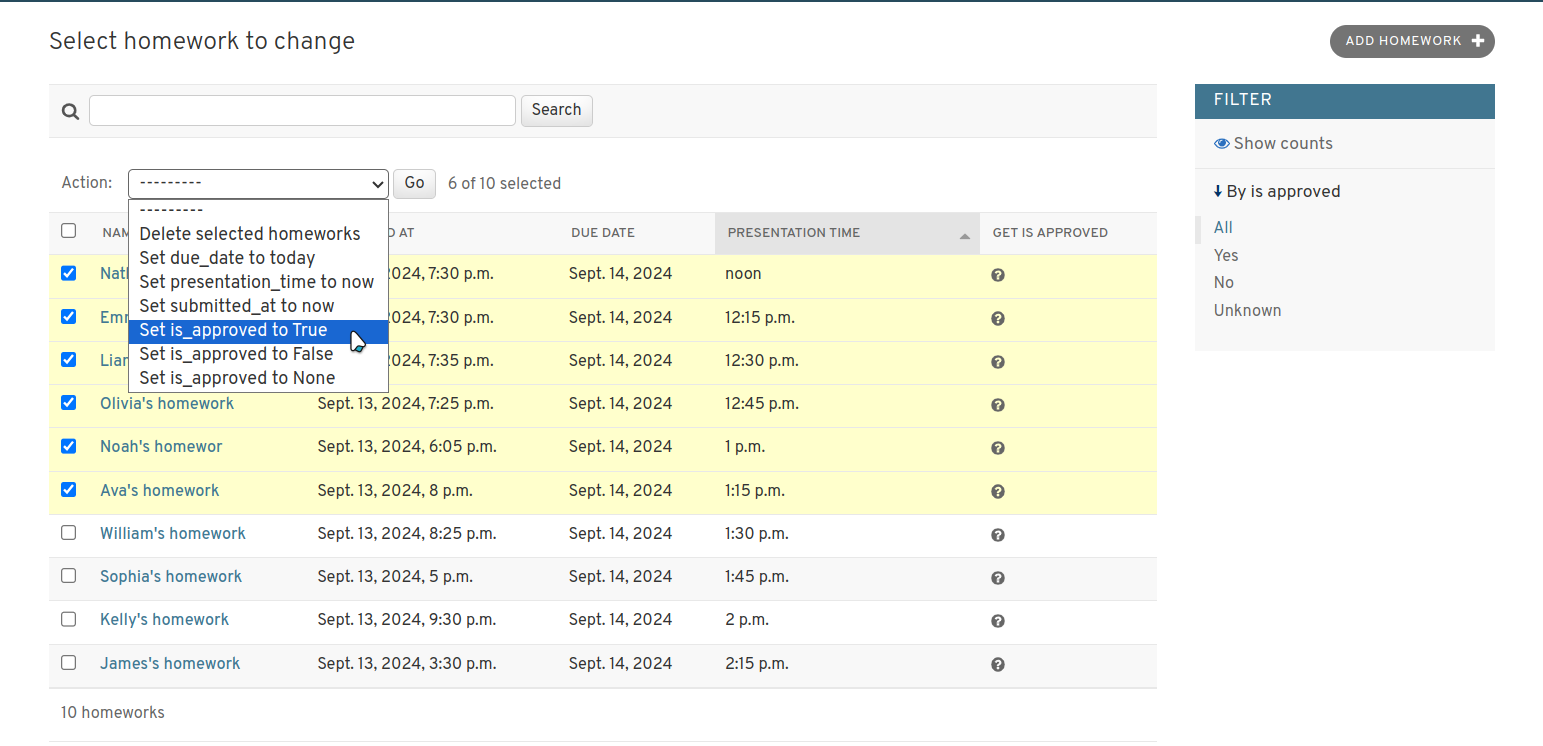
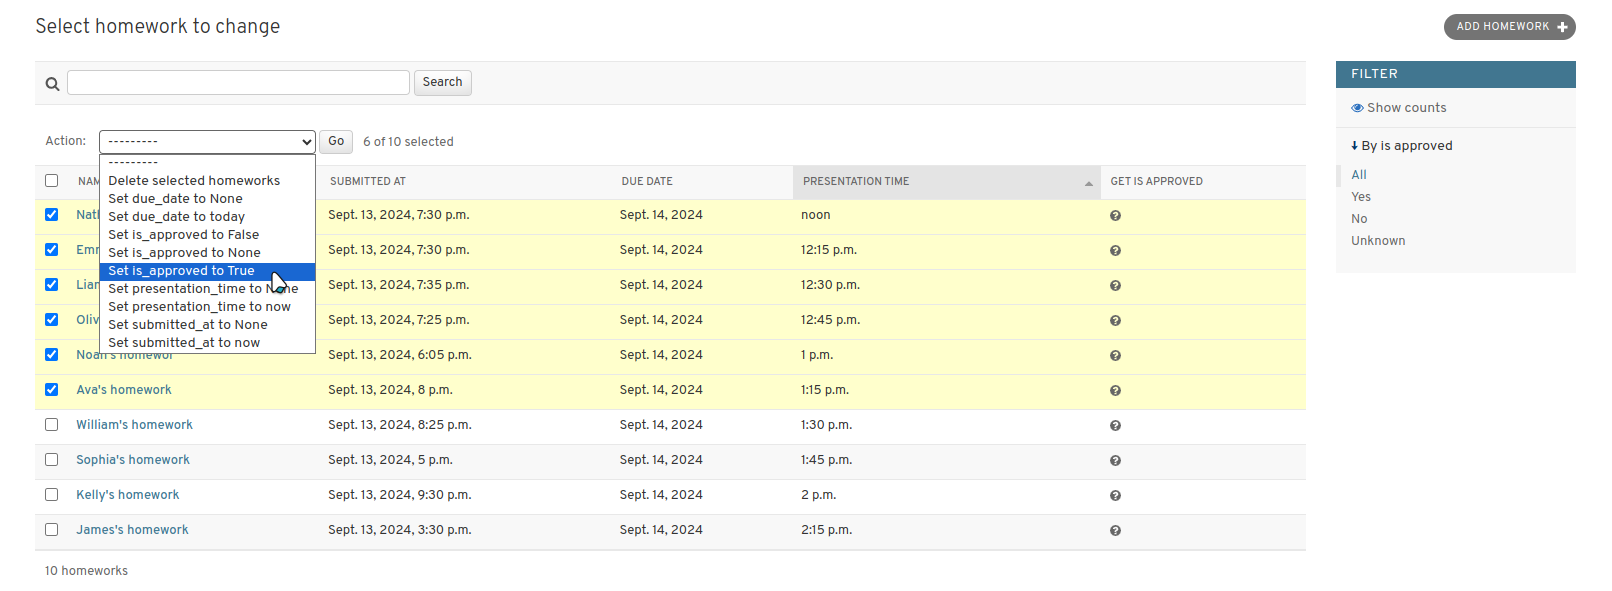
Updated docstrings and example images

diff --git a/django_auto_actions/main.py b/django_auto_actions/main.py
@@ -31,11 +31,11 @@ class AutoActionsMixin:
     ```
 
     This will add the following actions:
-    - Set is_active to True
     - Set is_active to False
     - Set is_active to None
-    - Set submitted_at to now
+    - Set is_active to True
     - Set submitted_at to None
+    - Set submitted_at to now
     """
 
     def get_actions(self, request):
@@ -112,7 +112,35 @@ class AutoActionsMixin:
 
 class AutoActionsModelAdmin(AutoActionsMixin, admin.ModelAdmin):
     """
-    A ModelAdmin subclass that includes the AutoActionsMixin.
+    A ModelAdmin subclass that includes the AutoActionsMixin to add auto actions.
+
+    Usage:
+    1. Replace `admin.ModelAdmin` with `AutoActionsModelAdmin` in your ModelAdmin subclass.
+    2. Define a list of fields to exclude from auto actions in the `exclude_auto_actions` attribute.
+
+    Example:
+    ```python
+    from django.db import models
+    from django.contrib import admin
+    from django_auto_actions import AutoActionsModelAdmin
+
+    class MyModel(models.Model):
+        name = models.CharField(max_length=255)
+        is_active = models.BooleanField(null=True, blank=True)
+        submitted_at = models.DateTimeField(null=True, blank=True)
+        created_at = models.DateTimeField(auto_now_add=True)
+
+    @admin.register(MyModel)
+    class MyModelAdmin(AutoActionsModelAdmin):
+        exclude_auto_actions = ["created_at"]
+    ```
+
+    This will add the following actions:
+    - Set is_active to False
+    - Set is_active to None
+    - Set is_active to True
+    - Set submitted_at to None
+    - Set submitted_at to now
     """
 
     pass
